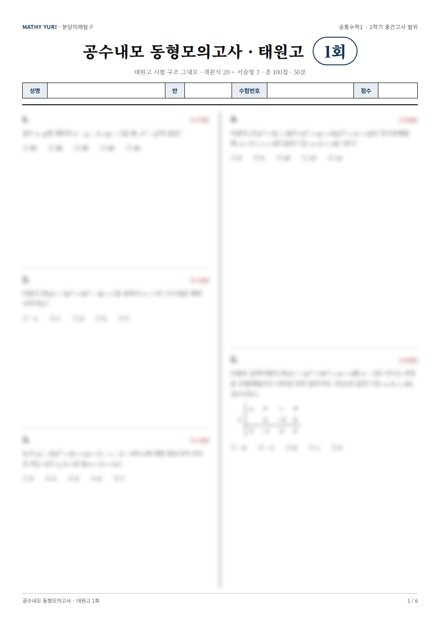
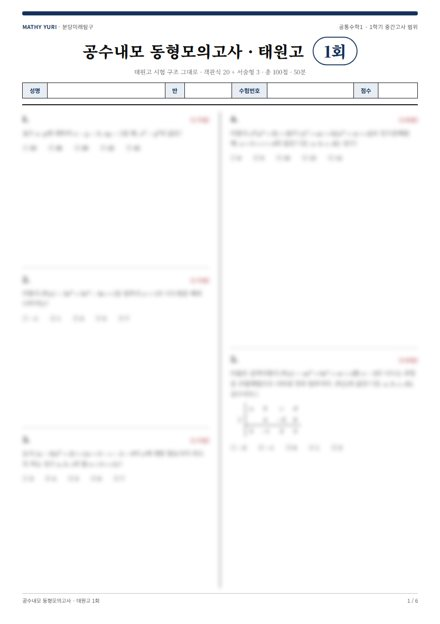
교재 구매 사진: 동형=네이비·과제=버건디·원본=초록 테두리로 시험지 종류 구분

Changed region(s): [[0.0591, 0.0, 0.9455, 0.0304]]

diff --git a/shop.js b/shop.js
@@ -94,14 +94,14 @@
     try { var r = await fetch('books/books.json?v=' + Date.now()); P.base = r.ok ? await r.json() : {}; } catch (e) { P.base = {}; }
     P.baseBusy = false; if (onShop()) render(0);
   }
-  function pcard(src, cap, v, id) {
-    return '<div class="shi"><img ' + (id ? 'data-sp="' + esc(id) + '" ' : '') + 'data-sa="zoom" data-v="' + esc(v) + '" src="' + esc(src) + '" alt="' + esc(cap) + '">' + (cap ? '<div class="shc">' + esc(cap) + '</div>' : '') + '</div>';
+  function pcard(src, cap, v, id, k) {
+    return '<div class="shi' + (k ? ' k-' + esc(k) : '') + '"><img ' + (id ? 'data-sp="' + esc(id) + '" ' : '') + 'data-sa="zoom" data-v="' + esc(v) + '" src="' + esc(src) + '" alt="' + esc(cap) + '">' + (cap ? '<div class="shc">' + esc(cap) + '</div>' : '') + '</div>';
   }
   function bookPics(w) {
     var base = (P.base && P.base[String(w)]) || [], ex = ((P.d && P.d.photos) || []).filter(function (f) { return f.week === w; });
     if (!base.length && !ex.length) return '';
     var h = '<div class="shbk">';
-    if (base.length) h += '<div class="shbl">기본 교재</div><div class="shp">' + base.map(function (b) { return pcard(b.f, b.c, b.f); }).join('') + '</div>';
+    if (base.length) h += '<div class="shbl">기본 교재</div><div class="shp">' + base.map(function (b) { return pcard(b.f, b.c, b.f, null, b.k); }).join('') + '</div>';
     if (ex.length) h += '<div class="shbl">추가 교재</div><div class="shp">' + ex.map(function (f) { return pcard(P.pic[f.id] || BLANK, f.caption, f.id, f.id); }).join('') + '</div>';
     return h + '</div>';
   }
@@ -134,7 +134,7 @@
     '.shacct{background:var(--soft);border:1.5px solid var(--acc);border-radius:20px;padding:16px 18px;margin-bottom:16px}.shacct .big{font-family:var(--font);font-variant-numeric:tabular-nums;font-size:22px;font-weight:800;letter-spacing:.5px;word-break:break-all}.shacct .row{display:flex;justify-content:space-between;gap:10px;align-items:center;padding:6px 0;border-top:1px dashed #c9b79c}.shacct .row:first-of-type{border-top:0}.shacct .row span:first-child{color:var(--mut);font-size:13px;flex:none}' +
     '.shord{padding:12px 0;border-top:1px solid var(--line)}.shord:first-of-type{border-top:0}.shord .h{display:flex;justify-content:space-between;gap:8px;align-items:center;flex-wrap:wrap}.shord .a{display:flex;gap:6px;flex-wrap:wrap;margin-top:8px}' +
     '.shmx{overflow-x:auto;border:1px solid var(--line);border-radius:14px}.shmx table{border-collapse:collapse;font-size:13px;min-width:100%}.shmx th,.shmx td{padding:6px 7px;text-align:center;border-bottom:1px solid var(--line);white-space:nowrap}.shmx th{background:var(--soft);position:sticky;top:0}.shmx td:first-child,.shmx th:first-child{text-align:left;position:sticky;left:0;background:var(--card);font-weight:700}.shmx th:first-child{background:var(--soft)}.shmx tfoot td{font-weight:700;background:var(--soft2)}' +
-    '.shbk{margin:4px 0 2px}.shbl{font-size:12.5px;font-weight:700;color:var(--acc);margin:8px 0 0}.shsel{width:100%;border:1px solid var(--line);border-radius:12px;padding:9px 10px;background:#fff;font:inherit}.shp .shi img[data-v^="books/"]{height:224px}' +
+    '.shp .shi.k-exam img{border:3px solid #16325c}.shp .shi.k-orig img{border:3px solid #1f5a3d}.shp .shi.k-hw img{border:3px solid #8c2f4a}.shp .shi.k-exam .shc{color:#16325c;font-weight:700}.shp .shi.k-orig .shc{color:#1f5a3d;font-weight:700}.shp .shi.k-hw .shc{color:#8c2f4a;font-weight:700}.shbk{margin:4px 0 2px}.shbl{font-size:12.5px;font-weight:700;color:var(--acc);margin:8px 0 0}.shsel{width:100%;border:1px solid var(--line);border-radius:12px;padding:9px 10px;background:#fff;font:inherit}.shp .shi img[data-v^="books/"]{height:224px}' +
     '.shpa{display:flex;gap:12px;align-items:center;padding:8px 0;border-top:1px solid var(--line)}.shpa img{width:56px;height:74px;object-fit:cover;border-radius:8px;border:1px solid var(--line);background:var(--bg2)}.shpa .t{flex:1;min-width:0}' +
     '.shin{width:100%;border:1px solid var(--line);border-radius:14px;padding:9px 12px;background:#fff;min-width:0}' +
     '.shwarn{font-size:12.5px;color:var(--mut);line-height:1.55;margin-top:8px}';
@@ -268,7 +268,7 @@
       '<input type="file" id="shp_file" accept="image/jpeg,image/png,image/webp" data-si="photo" multiple style="display:none"><button class="btn" data-sa="pickfile" type="button"' + (P.busy ? ' disabled' : '') + '>' + (P.busy ? '올리는 중…' : '사진 고르기 (여러 장 가능)') + '</button></div>';
     var bk = P.base || {}, bks = Object.keys(bk).sort(function (x, y) { return x - y; });
     if (bks.length) h += '<div class="card"><h3 style="margin:0 0 4px">기본 교재 (자동)</h3><div class="muted sm" style="margin-bottom:6px">교재를 만들 때 함께 만들어지는 사진이에요. 시험지는 문제를 흐리게 처리했어요.</div>' +
-      bks.map(function (k) { return '<div class="shbl">' + k + '회차</div><div class="shp">' + bk[k].map(function (b) { return pcard(b.f, b.c, b.f); }).join('') + '</div>'; }).join('') + '</div>';
+      bks.map(function (k) { return '<div class="shbl">' + k + '회차</div><div class="shp">' + bk[k].map(function (b) { return pcard(b.f, b.c, b.f, null, b.k); }).join('') + '</div>'; }).join('') + '</div>';
     var ph = (d.photos || []);
     h += '<div class="card"><h3 style="margin:0 0 4px">올려 둔 추가 교재 사진</h3>' + (ph.length ? '' : '<div class="muted sm">아직 없어요</div>');
     ph.forEach(function (f) {
